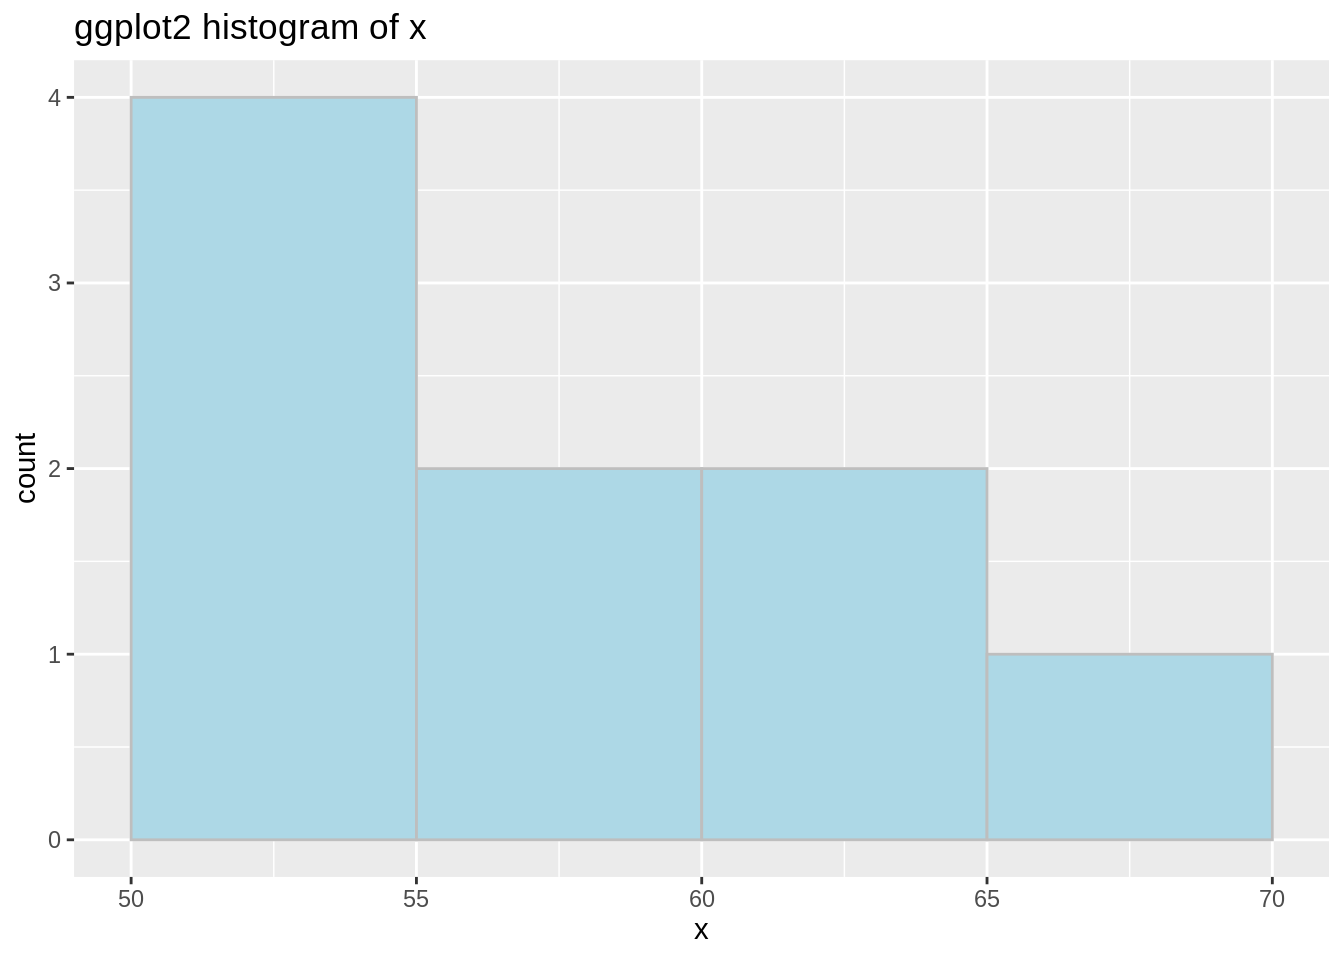
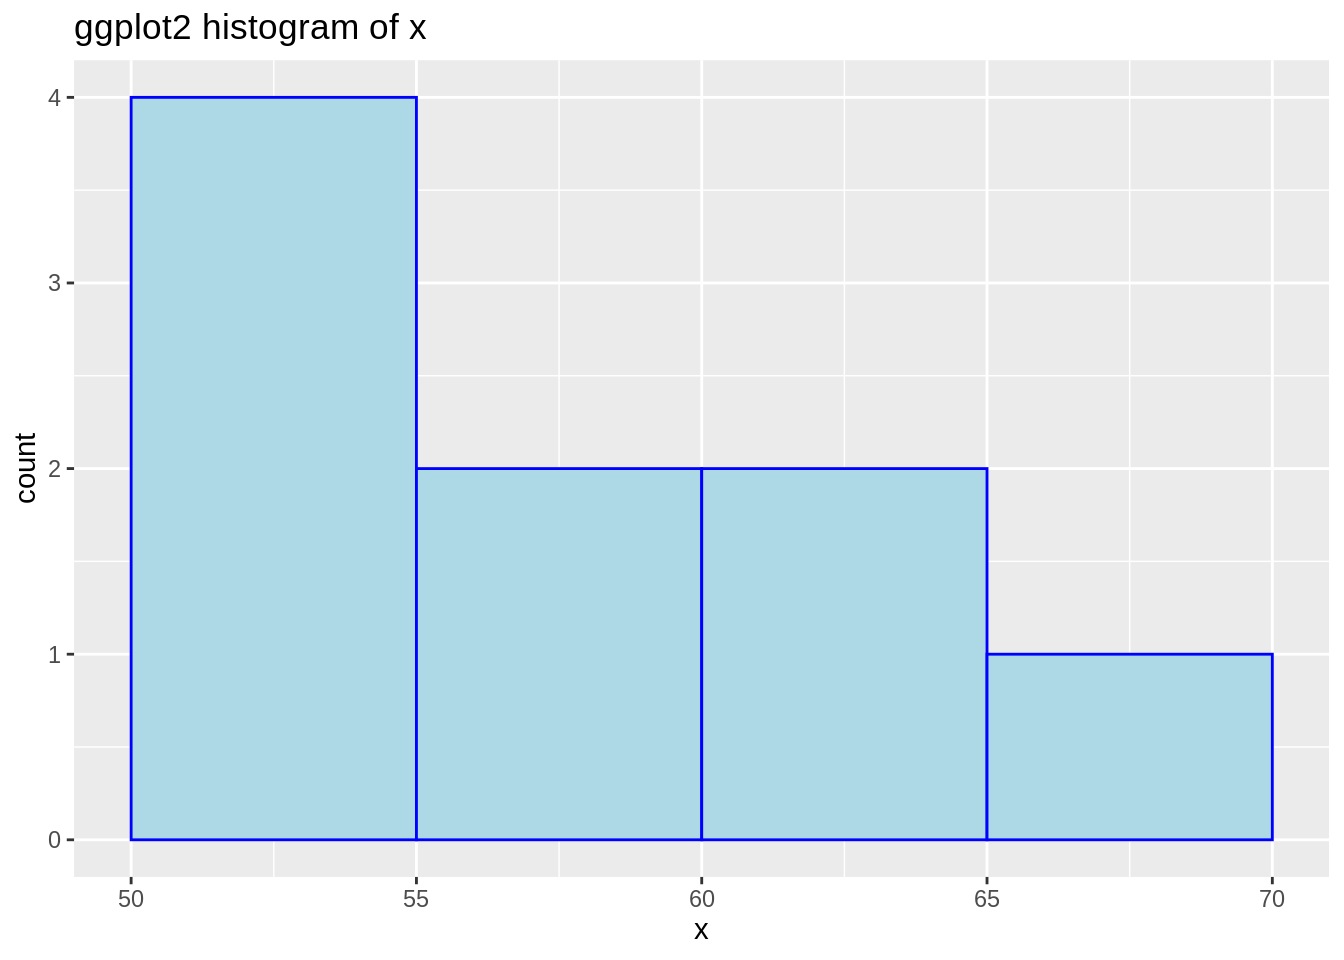
Deploying to gh-pages from @ jtr13/edav2@313ed6bfe11c0687c68ad846eaa543a3074176c1 🚀

diff --git a/unidimensional-continuous-variables.html b/unidimensional-continuous-variables.html
@@ -73,7 +73,7 @@
 <span class="va">df</span> <span class="op">&lt;-</span> <span class="fu"><a href="https://rdrr.io/r/base/data.frame.html">data.frame</a></span><span class="op">(</span><span class="va">x</span><span class="op">)</span>
 
 <span class="fu"><a href="https://ggplot2.tidyverse.org/reference/ggplot.html">ggplot</a></span><span class="op">(</span><span class="va">df</span>, <span class="fu"><a href="https://ggplot2.tidyverse.org/reference/aes.html">aes</a></span><span class="op">(</span><span class="va">x</span><span class="op">)</span><span class="op">)</span> <span class="op">+</span>
-  <span class="fu"><a href="https://ggplot2.tidyverse.org/reference/geom_histogram.html">geom_histogram</a></span><span class="op">(</span>color <span class="op">=</span> <span class="st">"grey"</span>, fill <span class="op">=</span> <span class="st">"lightBlue"</span>, 
+  <span class="fu"><a href="https://ggplot2.tidyverse.org/reference/geom_histogram.html">geom_histogram</a></span><span class="op">(</span>color <span class="op">=</span> <span class="st">"blue"</span>, fill <span class="op">=</span> <span class="st">"lightBlue"</span>, 
                  binwidth <span class="op">=</span> <span class="fl">5</span>, center <span class="op">=</span> <span class="fl">52.5</span><span class="op">)</span> <span class="op">+</span>
   <span class="fu"><a href="https://ggplot2.tidyverse.org/reference/labs.html">ggtitle</a></span><span class="op">(</span><span class="st">"ggplot2 histogram of x"</span><span class="op">)</span></code></pre></div>
 <div class="inline-figure"><img src="continuous_var_files/figure-html/unnamed-chunk-1-1.png" width="672" style="display: block; margin: auto;"></div>
@@ -285,7 +285,7 @@ We see that the graph is not ideal with some gaps. There are two ways to modify 
 <div class="inline-figure"><img src="continuous_var_files/figure-html/unnamed-chunk-11-1.png" width="672" style="display: block; margin: auto;"></div>
 <p>Notice that the normal curve is not compatiable with facet. Consider the following example</p>
 <div class="inline-figure"><img src="Normal_dist.png" style="width:75.0%"></div>
-<p>As you might notice, if though a normal curve appears in all of the sections, they are actually the same one and generated on the whole dataset. In such circumstance, we suggest drawing each graph seperately and combine them.</p>
+<p>As you might notice, even though a normal curve appears in all of the sections, they are actually the same one and generated on the whole dataset. In such circumstance, we suggest drawing each graph separately and combine them.</p>
 
 </div>
 </div>

diff --git a/continuous_var.md b/continuous_var.md
@@ -18,7 +18,7 @@ x <- c(50, 51, 53, 55, 56, 60, 65, 65, 68)
 df <- data.frame(x)
 
 ggplot(df, aes(x)) +
-  geom_histogram(color = "grey", fill = "lightBlue", 
+  geom_histogram(color = "blue", fill = "lightBlue", 
                  binwidth = 5, center = 52.5) +
   ggtitle("ggplot2 histogram of x")
 ```
@@ -257,4 +257,4 @@ Notice that the normal curve is not compatiable with facet. Consider the followi
 
 ![](Normal_dist.png){width=75%}
 
-As you might notice, if though a normal curve appears in all of the sections, they are actually the same one and generated on the whole dataset. In such circumstance, we suggest drawing each graph seperately and combine them.
+As you might notice, even though a normal curve appears in all of the sections, they are actually the same one and generated on the whole dataset. In such circumstance, we suggest drawing each graph separately and combine them.
